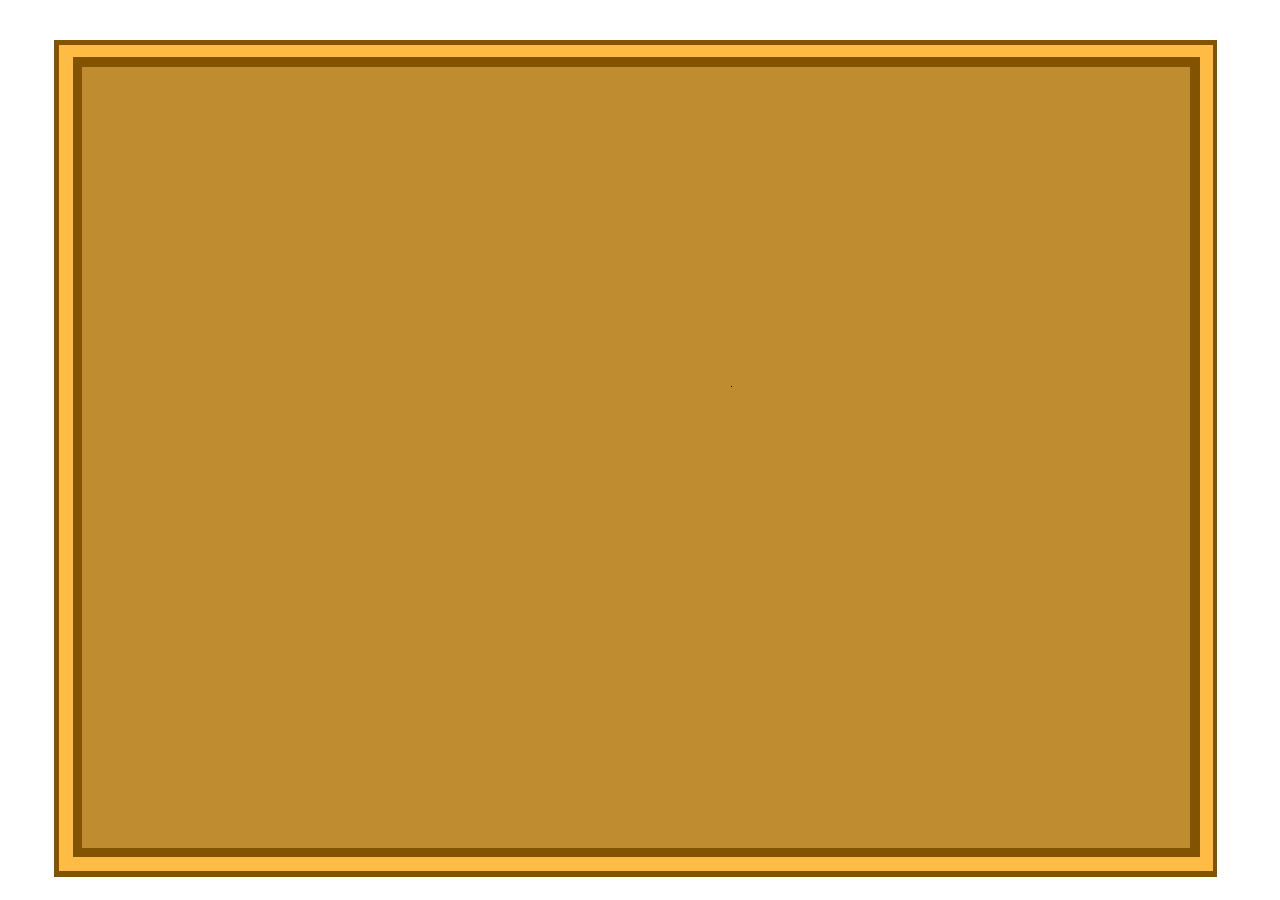
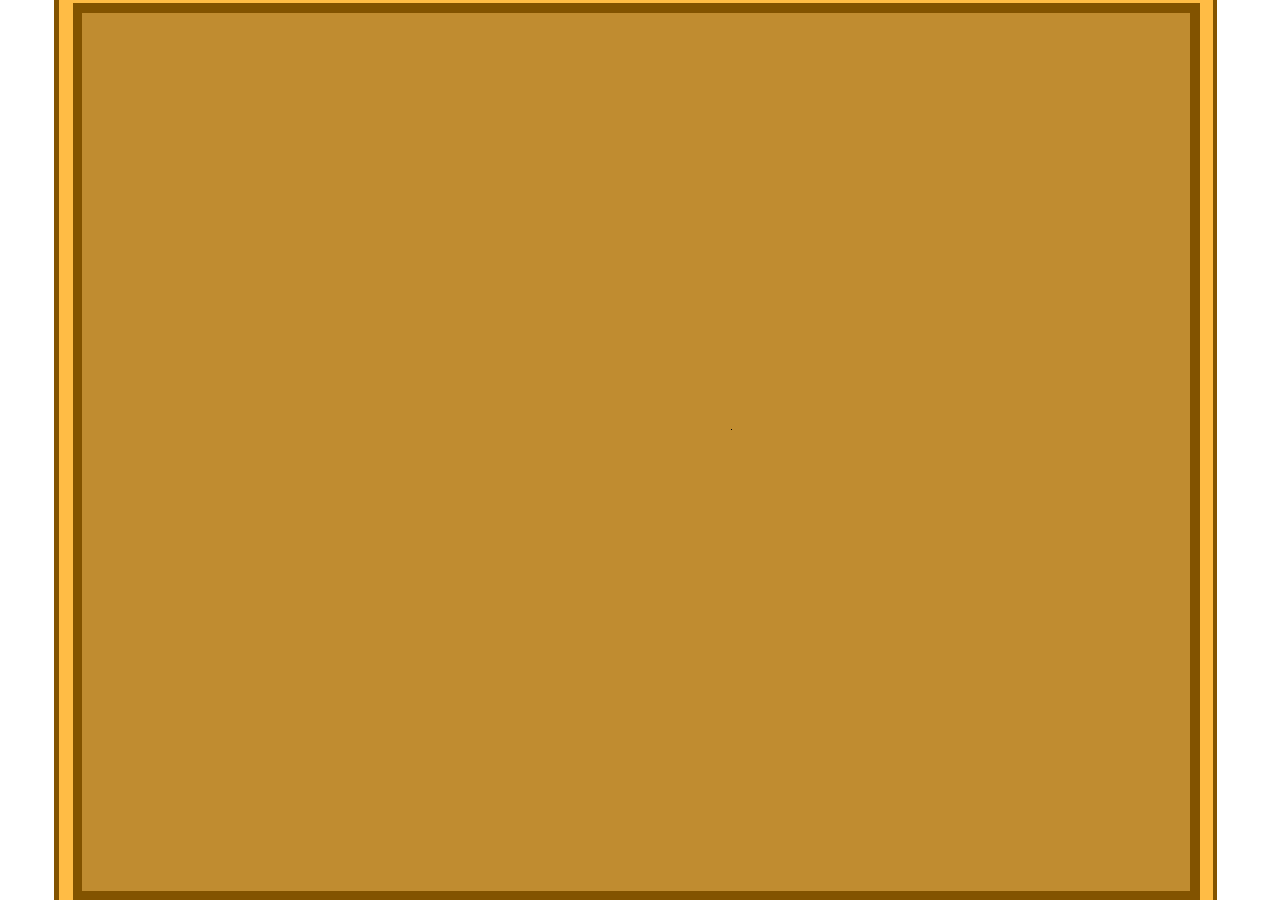
Adding Credits

Changed region(s): [[0.0312, 0.9333, 0.9688, 1.0], [0.0312, 0.0, 0.9688, 0.0933]]

diff --git a/src/scenes/CreditsScene.js b/src/scenes/CreditsScene.js
@@ -2,7 +2,7 @@ import Scene from './Scene.js'
 import Scenes from '../globals/Scenes.js'
 import Menu from '../uiElements/Menu.js'
 import Constants from '../globals/Constants.js'
-import { TitleBackground, TitleBackground2, TitleBackground3, TitleBackground4, TitleBackground5, WildlifeSprites } from '../globals/Images.js'
+import { TitleBackground, TitleBackground2, TitleBackground3, Pregame, TitleBackground4, TitleBackground5 } from '../globals/Images.js'
 import UIAttributes from '../globals/UIAttributes.js'
 import Keys from '../globals/Keys.js'
 import Credits from '../globals/Credits.js'
@@ -14,6 +14,12 @@ export default class CreditsScene extends Scene {
     this.menu = null
     this.currentY = this.game.canvas.height
     this.contributorColors = [
+      '#FF0000',
+      '#00FF00',
+      '#0000FF',
+      '#FFFF00',
+      '#FF00FF',
+      '#00FFFF',
       '#FF0000',
       '#00FF00',
       '#0000FF',
@@ -32,8 +38,8 @@ export default class CreditsScene extends Scene {
         this.backgroundImage = this.imageManager.getImageWithSrc(TitleBackground)
         this.backgroundImage2 = this.imageManager.getImageWithSrc(TitleBackground2)
         this.backgroundImage3 = this.imageManager.getImageWithSrc(TitleBackground3)
-        //this.backgroundImage4 = this.imageManager.getImageWithSrc(TitleBackground4)
-        this.backgroundImage5 = this.imageManager.getImageWithSrc(TitleBackground5)
+        this.backgroundImage4 = this.imageManager.getImageWithSrc(Pregame)
+        //this.backgroundImage5 = this.imageManager.getImageWithSrc(TitleBackground5)
 
     // initialize resources
     this.menu = new Menu({
@@ -88,7 +94,7 @@ function drawTitle (title) {
   title.game.ctx.fillStyle = Constants.TitleTextColor
   title.game.ctx.font = `${Constants.TitleFontSize - 10}px ${Constants.TitleFontFamily}`
   title.game.ctx.textAlign = UIAttributes.CenterAlign
-  title.game.ctx.fillText('Credits', title.game.canvas.width / 2 + 250, (title.game.canvas.height / 4 - 100))
+ // title.game.ctx.fillText('Credits', title.game.canvas.width / 2 + 250, (title.game.canvas.height / 4 - 100))
 }
 
 function drawCredits (scene) {
@@ -99,12 +105,16 @@ function drawCredits (scene) {
   let contributorIndex = 0
   for (const credit of Credits) {
     scene.game.ctx.fillStyle = scene.contributorColors[contributorIndex]
-    scene.game.ctx.fillText(credit.contributor, 50, scene.currentY + 50 * lineIndex)
+    scene.game.ctx.fillText(credit.contributor, 100, scene.currentY + 50 * lineIndex)
+    scene.game.ctx.fillStyle = Constants.MainMenuTextColor
+
     lineIndex++
     contributorIndex++
-    scene.game.ctx.fillStyle = Constants.MainMenuTextColor
     for (const contribution of credit.contributions) {
-      scene.game.ctx.fillText(contribution, 100, scene.currentY + 50 * lineIndex)
+      scene.game.ctx.fillText(contribution, 100, scene.currentY + 50 * lineIndex )
+      scene.game.ctx.fillStyle = Constants.MainMenuTextColor
+      scene.game.ctx.fillText(contribution, 102, scene.currentY + 50 * lineIndex )
+      scene.game.ctx.fillStyle = Constants.MainMenuTextColor2
       lineIndex++
     }
   }
@@ -134,7 +144,7 @@ function drawBackground (title) {
   // horizon and rows of crops
   title.game.ctx.drawImage(title.backgroundImage3, 0, 0, title.game.canvas.width, title.game.canvas.height)
   
-    title.game.ctx.drawImage(title.backgroundImage5, 0, 0, title.game.canvas.width - 50, title.game.canvas.height)
+   title.game.ctx.drawImage(title.backgroundImage4, 0, 0, title.game.canvas.width - 50, title.game.canvas.height)
 
 }
 

diff --git a/src/globals/Credits.js b/src/globals/Credits.js
@@ -1,24 +1,100 @@
 export const Credits = [
   {
-    contributor: 'Cassidy Noble',
+    contributor: 'Cassidy Noble - Project co-lead',
     contributions: [
-      'Game Design',
-      'Game Art',
+      
+      'Main Artist - ',
+      '   Characters (including outfits and hairstyles, player and NPCs)',
+      '   Environment (natural, buildings [exterior and interior] with decorations)',
+      '   Crop tiles, seed tiles, environment tiles',
+      '   Inventory items, UI, and tool icons',
+      '   Dialog sprites, shop system UI, time of day indicator, help/tutorial screens',
+      'Economy and Balancing',
+      'Sounds (step variations, tree chop)',
+      'Assorted bug fixes'
     ]
   },
   {
-    contributor: 'H Trayford',
+    contributor: 'H Trayford - Project co-lead',
     contributions: [
-      'Game Engine',
+      
+      'Main Programmer',
+      'Character creator interface',
+      'Fishing system',
+      'Animation manager',
+      'Map system',
+      'NPC interaction memories',
+      'Camera movement',
+      'Currency systems',
+      'Furniture support',
+      'Time of day change',
+      'Dialog system',
+      'Gift feature',
+      'Crop data authoring',
+      'Quest system',
+      'Purchase menus',
+      'UI system and paging',
+      'Event manager',
+      'Font selection/integration',
+      'Assorted integration and bug fixes'
     ]
   },
   {
     contributor: 'Christer "McFunkypants" Kaitila',
     contributions: [
-      'Bunnies',
-      'Particle System',
+      
+      'Wildlife (butterflies, bunnies, bumblebees) art and behaviors',
+      'Ambient sound (birds, waterfall, seashore, tv static)',
+      'Action and particles (plant, harvest, till, water, door, fishing related)',
+      'Shore environment art',
+      'Title screen',
+      'Sun effect',
+      'Shadow rendering',
+      'Walking sound',
+      'Shore environment art',
+      'Weather effects and related sounds',
+      'Particle system and related optimization',
+      'Gamepad support'
     ]
-  }
+  },
+  {
+    contributor: 'Alex (Weinbagz) Weinberg',
+    contributions: [
+      
+      'Fishing music',
+      'Music integration and crossfade',
+      'Sowing sound System'
+    ]
+  },
+  {
+    contributor: 'Alan Zaring',
+    contributions: [
+      
+      ' Main background music'
+    ]
+  },
+  {
+    contributor: 'Owen "Q-Bit" Good',
+    contributions: [
+      
+      'Sprites (tree, sunflower, apple tree, lime tree, stumps',
+      'Dead tree improvement, mini grand piano)'
+    ]
+  },
+  {
+    contributor: 'ishan',
+    contributions: [
+      
+      'Stamina fix, tilling tool check correction'
+    ]
+  },
+  {
+    contributor: 'Elizabeth McMahill',
+    contributions: [
+      
+      'Potato, pumpkin, strawberry, crop dead stage fix'
+    ]
+  },
 ]
 
 export default Credits

diff --git a/src/globals/Constants.js b/src/globals/Constants.js
@@ -9,6 +9,8 @@ const Constants = {
   MainMenuFontSize: 36,
   MainMenuFontFamily: FontFamilies.LuckyFarmer,
   MainMenuTextColor: '#FFFFFF',
+  MainMenuTextColor2: '#542015',
+  MainMenuTextColor3:  '#ac6e0e',
   SceneTitleFontSize: 96,
   TileHeight: 16,
   TileWidth: 16,
@@ -27,6 +29,7 @@ export const {
   CanvasScale,
   ImageScale,
   MainMenuTextColor,
+  MainMenuTextColor2,
   TileHeight,
   TileWidth,
   SHADOWS_ENABLED
